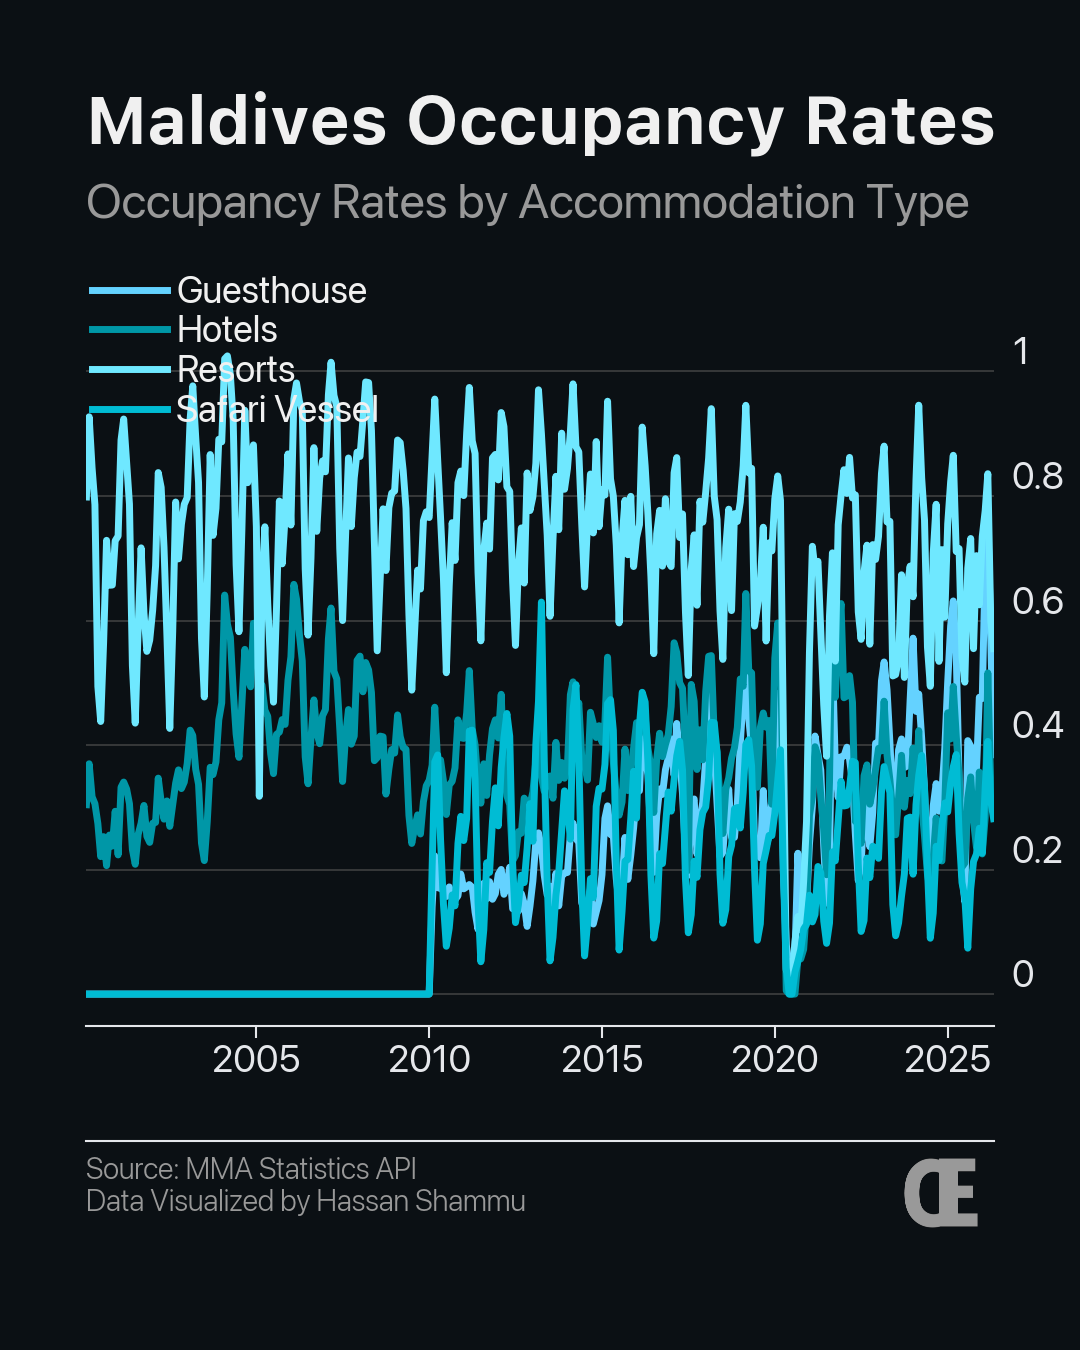
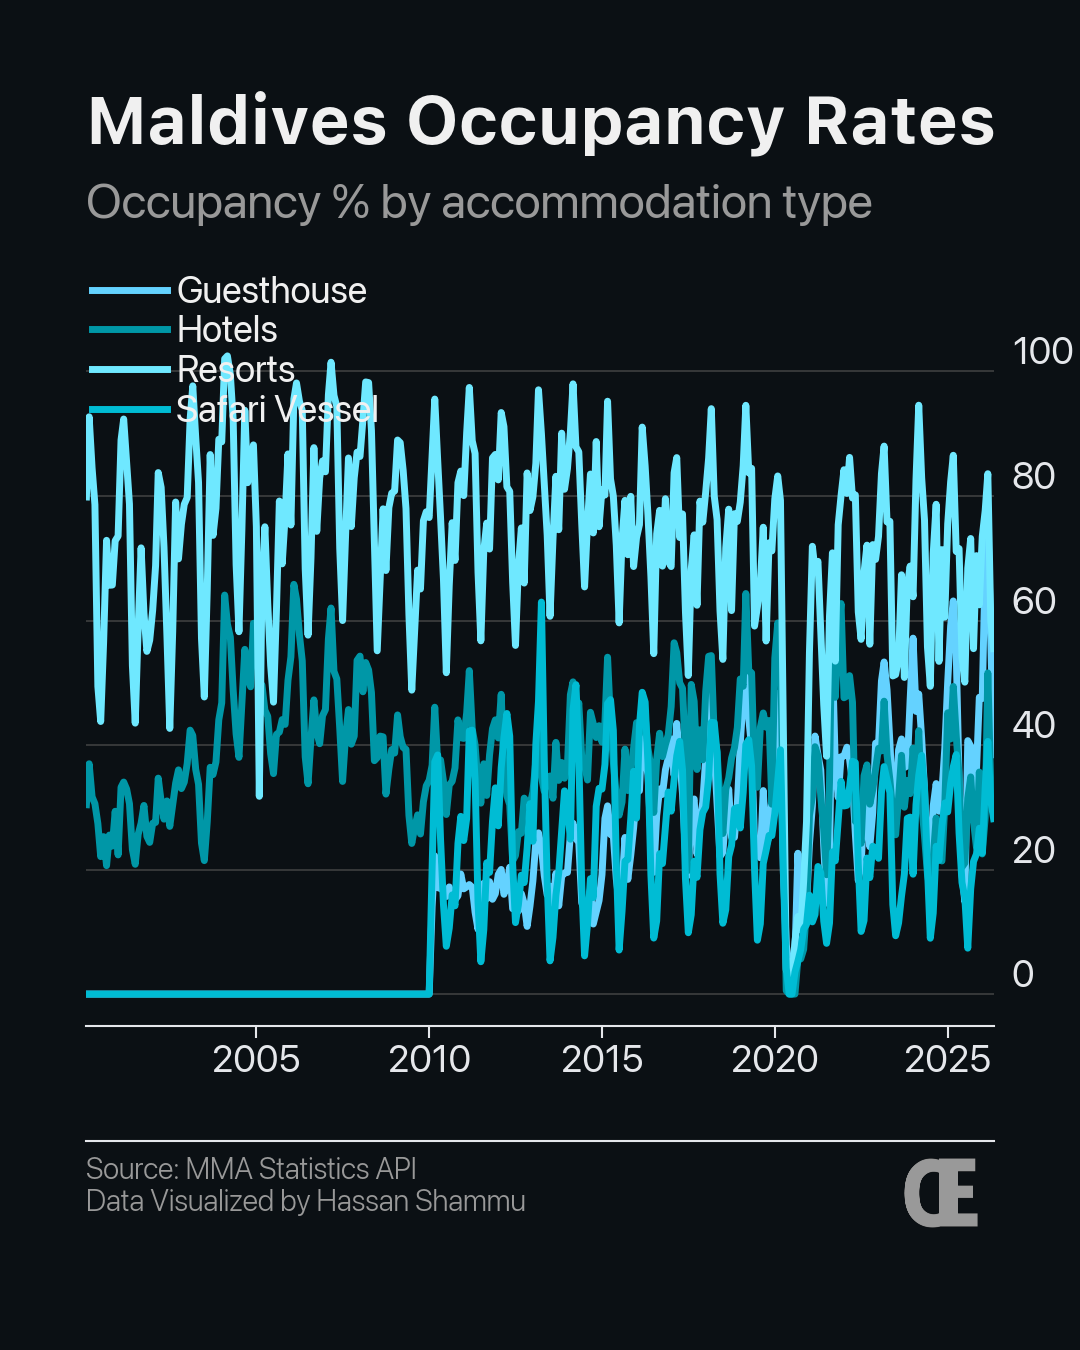
Update subtitle for clarity and modify y-axis formatter to display percentages

diff --git a/occupancy_rates.py b/occupancy_rates.py
@@ -50,7 +50,7 @@ ys = {label: merged[label].tolist() for label in SERIES if label in merged.colum
 # ── Plot ──────────────────────────────────────────────────────────────────────
 chart = ElegantChart(
     title="Maldives Occupancy Rates",
-    subtitle="Occupancy Rates by Accommodation Type",
+    subtitle="Occupancy % by accommodation type",
     caption="Source: MMA Statistics API\nData Visualized by Hassan Shammu",
 )
 
@@ -59,7 +59,7 @@ chart.line(
     ys=ys,
     markers=False,
     linewidth=1,
-    y_formatter="plain",
+    y_formatter=lambda x, pos: f"{x * 100:.0f}",
     show=False,
     save_path="occupancy_rates.png",
 )